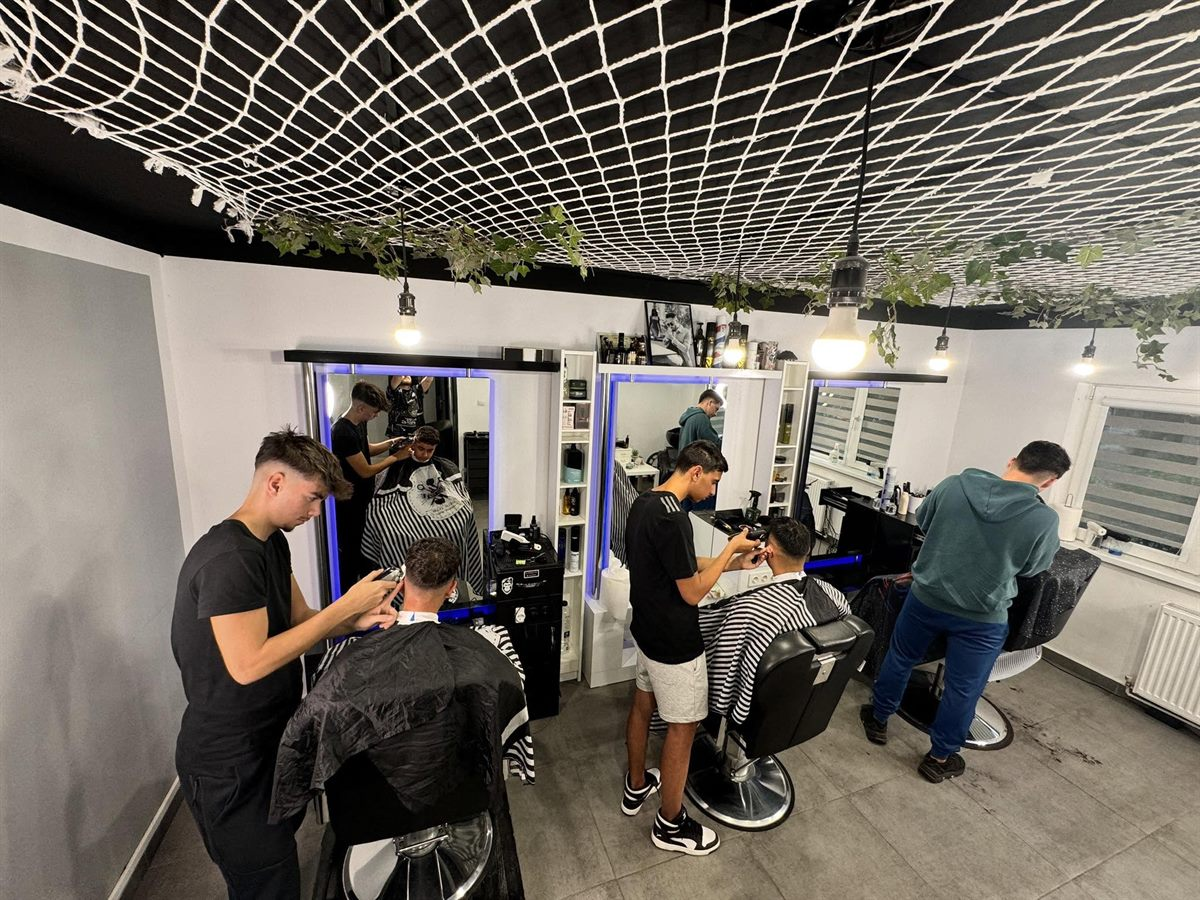
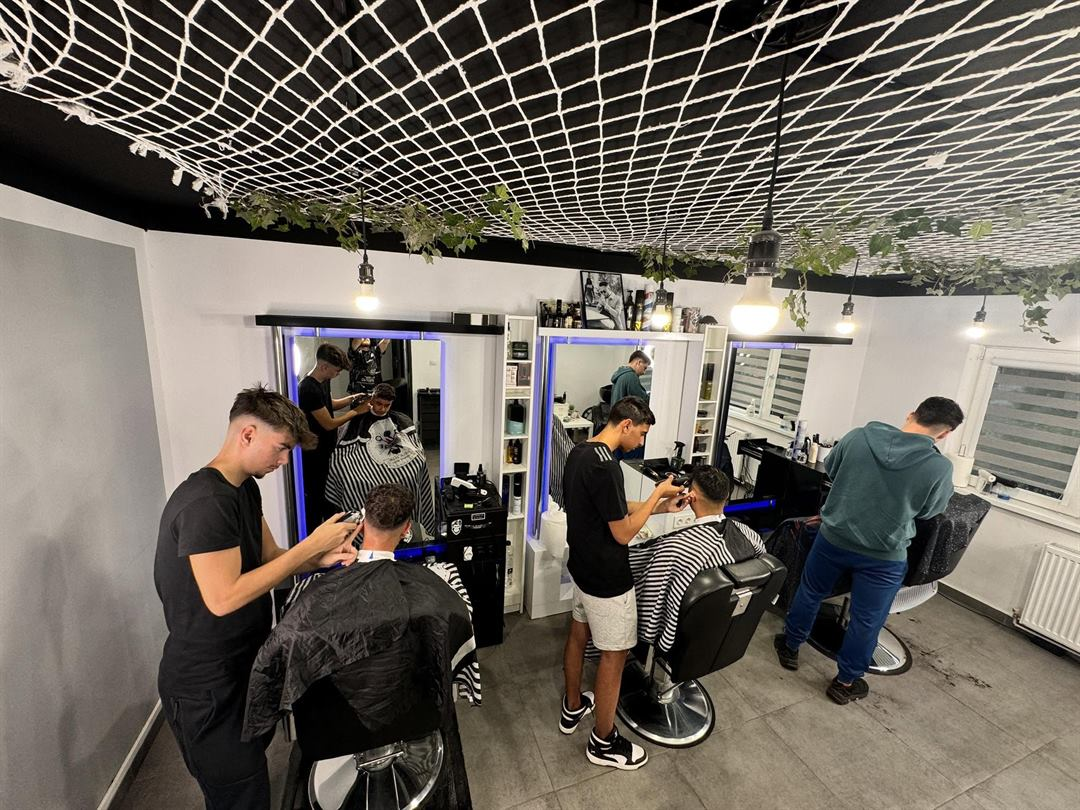
Poza salonului in primul ecran, stalp de frizerie continuu, poze fara zone goale la incarcare
Acasa: fotografia salonului devine hero cu butonul Programeaza-te peste ea, vizibila fara scroll. Stalpul de frizerie foloseste o placuta care se repeta fara cusaturi. Caruselul, grila si lightbox-ul au miniatura ca fundal pana se incarca poza mare. Doua poze recomprimate, service worker cu retea intai pentru cod.

Changed region(s): [[0.1222, 0.1543, 0.7639, 0.3086], [0.6111, 0.6481, 0.6722, 0.7407], [0.3056, 0.5556, 0.3667, 0.5864]]

diff --git a/assets/css/app.css b/assets/css/app.css
@@ -31,7 +31,9 @@
   --green-soft: rgba(51, 209, 122, .14);
   --amber: #F2B441;
 
-  --pole: repeating-linear-gradient(-45deg, var(--red) 0 7px, #F4F4F2 7px 14px, var(--blue) 14px 21px, #F4F4F2 21px 28px);
+  /* plăcuță pătrată cu exact 2 perioade pe diagonală: se repetă fără cusături */
+  --pole: linear-gradient(-45deg, var(--red) 0 12.5%, #F4F4F2 12.5% 25%, var(--blue) 25% 37.5%, #F4F4F2 37.5% 50%, var(--red) 50% 62.5%, #F4F4F2 62.5% 75%, var(--blue) 75% 87.5%, #F4F4F2 87.5% 100%);
+  --pole-s: 40px;
 
   --r-sm: 12px;
   --r-md: 16px;
@@ -303,6 +305,35 @@ body.intro .view.is-active .rise {
 .hello { padding: 10px var(--gutter) 0; }
 .hello .eyebrow { margin-bottom: 8px; text-transform: none; }
 
+/* hero: fotografia salonului în primul ecran, cu butonul de programare peste ea */
+.hero {
+  position: relative; isolation: isolate; overflow: hidden;
+  margin: 18px var(--gutter) 0; height: 300px; border-radius: 26px;
+  background: var(--surface-2);
+  box-shadow: inset 0 0 0 1px var(--line), 0 18px 50px rgba(0, 0, 0, .35);
+}
+.hero__media { position: absolute; inset: 0; z-index: -1; cursor: pointer; }
+.hero__media img {
+  width: 100%; height: 100%; object-fit: cover;
+  background-size: cover; background-position: center; background-repeat: no-repeat;
+  transform: scale(1.03); transition: transform 1.2s var(--ease-out);
+}
+.hero__media:active img { transform: scale(1.07); }
+.hero__media::after {
+  content: ""; position: absolute; inset: 0;
+  background: linear-gradient(180deg, rgba(14, 15, 17, .25) 0%, rgba(14, 15, 17, 0) 24%, rgba(14, 15, 17, .5) 46%, rgba(14, 15, 17, .82) 66%, rgba(14, 15, 17, .96) 100%);
+}
+.hero__top { position: absolute; top: 14px; left: 14px; right: 14px; display: flex; justify-content: space-between; gap: 8px; pointer-events: none; }
+.hero__body { position: absolute; left: 10px; right: 10px; bottom: 10px; pointer-events: none; }
+.hero__title { padding: 0 10px 14px; font-size: 27px; line-height: 1.02; font-weight: 800; letter-spacing: -.026em; text-shadow: 0 2px 18px rgba(0, 0, 0, .5); }
+.hero .finder {
+  pointer-events: auto;
+  width: 100%; margin: 0;
+  background: rgba(30, 31, 35, .74);
+  -webkit-backdrop-filter: blur(20px) saturate(170%); backdrop-filter: blur(20px) saturate(170%);
+  box-shadow: inset 0 0 0 1px rgba(255, 255, 255, .1), 0 10px 30px rgba(0, 0, 0, .35);
+}
+
 .finder {
   appearance: none; border: 0; width: calc(100% - 2 * var(--gutter));
   margin: 22px var(--gutter) 0;
@@ -329,7 +360,7 @@ body.intro .view.is-active .rise {
 }
 .next::before {
   content: ""; position: absolute; left: 0; top: 0; bottom: 0; width: 4px;
-  background: var(--pole); background-size: 28px 28px;
+  background: var(--pole); background-size: var(--pole-s) var(--pole-s);
 }
 .next__head { display: flex; align-items: center; justify-content: space-between; gap: 10px; }
 .next__time {
@@ -375,27 +406,6 @@ body.intro .view.is-active .rise {
 }
 .tile__name { display: block; font-size: 16px; font-weight: 800; letter-spacing: -.01em; }
 .tile__meta { display: block; margin-top: 2px; font-size: 13px; font-weight: 700; color: var(--fg-3); }
-
-.promo {
-  position: relative; display: block; isolation: isolate;
-  margin: 0 var(--gutter); height: 228px; border-radius: 24px; overflow: hidden;
-  box-shadow: inset 0 0 0 1px var(--line);
-  background: var(--surface);
-}
-.promo img {
-  position: absolute; inset: 0; width: 100%; height: 100%; object-fit: cover; z-index: -2;
-  transform: scale(1.02); transition: transform 1.2s var(--ease-out);
-}
-.promo:active img { transform: scale(1.06); }
-.promo::after {
-  content: ""; position: absolute; inset: 0; z-index: -1;
-  background: linear-gradient(180deg, rgba(14, 15, 17, 0) 25%, rgba(14, 15, 17, .55) 55%, rgba(14, 15, 17, .94) 100%);
-}
-.promo__top { position: absolute; top: 14px; left: 14px; right: 14px; display: flex; justify-content: space-between; }
-.promo__body { position: absolute; left: 18px; right: 18px; bottom: 16px; }
-.promo__title { font-size: 24px; line-height: 1.05; font-weight: 800; letter-spacing: -.022em; }
-.promo__sub { margin-top: 6px; font-size: 14px; font-weight: 600; color: var(--fg-2); display: flex; align-items: center; gap: 6px; }
-.promo__sub .i { width: 15px; height: 15px; color: var(--amber); }
 
 .barber-card {
   appearance: none; border: 0; text-align: left; color: var(--fg);
@@ -533,11 +543,11 @@ body.intro .view.is-active .rise {
   background:
     linear-gradient(90deg, rgba(0, 0, 0, .45), rgba(255, 255, 255, .18) 38%, rgba(255, 255, 255, 0) 55%, rgba(0, 0, 0, .5)),
     var(--pole);
-  background-size: 100% 100%, 28px 28px;
+  background-size: 100% 100%, var(--pole-s) var(--pole-s);
   box-shadow: 0 0 0 4px var(--surface-3), 0 0 0 5px var(--line-2), 0 14px 30px rgba(0, 0, 0, .4);
   animation: poleClimb 1.4s linear infinite;
 }
-@keyframes poleClimb { to { background-position: 0 0, 0 -28px; } }
+@keyframes poleClimb { to { background-position: 0 0, 0 calc(var(--pole-s) * -1); } }
 .academy__title { font-size: 22px; font-weight: 800; letter-spacing: -.02em; margin-top: 12px; max-width: 75%; }
 .academy__text { margin-top: 8px; color: var(--fg-2); font-size: 14.5px; font-weight: 600; max-width: 92%; }
 .academy__meta { display: flex; flex-wrap: wrap; gap: 8px; margin-top: 16px; }
@@ -816,10 +826,10 @@ textarea.input { height: 92px; padding: 15px 16px; resize: none; line-height: 1.
 }
 .ticket__stripe {
   height: 6px; border-radius: 24px 24px 0 0;
-  background: var(--pole); background-size: 28px 28px;
+  background: var(--pole); background-size: var(--pole-s) var(--pole-s);
   animation: poleMove 1.6s linear infinite;
 }
-@keyframes poleMove { to { background-position: 28px 0; } }
+@keyframes poleMove { to { background-position: var(--pole-s) 0; } }
 .ticket__main { display: flex; align-items: center; gap: 14px; height: 100px; padding: 0 20px; }
 .ticket__main .grow { flex: 1; min-width: 0; }
 .ticket__main b { display: block; font-size: 17px; font-weight: 800; letter-spacing: -.01em; }
@@ -1009,8 +1019,8 @@ body.booting .tabbar { transform: translate(-50%, calc(100% + 40px)); opacity: 0
 }
 .car__item img {
   position: absolute; inset: 0; width: 100%; height: 100%; object-fit: cover;
+  background-size: cover; background-repeat: no-repeat;
   transform: translateX(calc(var(--x) * -14%)) scale(1.22);
-  will-change: transform;
 }
 .car__item::after {
   content: ""; position: absolute; inset: 0;
@@ -1054,7 +1064,11 @@ body.booting .tabbar { transform: translate(-50%, calc(100% + 40px)); opacity: 0
 }
 .grid__item:nth-child(10n + 1) { grid-column: span 2; grid-row: span 2; }
 .grid__item:nth-child(10n + 7) { grid-column: 2 / span 2; grid-row: span 2; }
-.grid__item img { width: 100%; height: 100%; object-fit: cover; transition: transform .5s var(--ease-out), opacity .4s; }
+.grid__item img {
+  width: 100%; height: 100%; object-fit: cover;
+  background-size: cover; background-repeat: no-repeat;
+  transition: transform .5s var(--ease-out);
+}
 .grid__item:active img { transform: scale(1.05); }
 
 .fade-img { opacity: 0; transition: opacity .5s ease; }
@@ -1171,7 +1185,14 @@ body.booting .tabbar { transform: translate(-50%, calc(100% + 40px)); opacity: 0
 .lb.is-ready .lb__track { opacity: 1; }
 .lb__track::-webkit-scrollbar { display: none; }
 .lb__slide { flex: none; width: 100%; height: 100%; scroll-snap-align: center; scroll-snap-stop: always; display: grid; place-items: center; }
-.lb__img { max-width: 100%; max-height: 100%; width: auto; height: auto; object-fit: contain; user-select: none; -webkit-user-drag: none; will-change: transform; }
+/* cutie dimensionată din raportul pozei: miniatura de fundal o umple perfect până se încarcă originalul */
+.lb__img {
+  width: min(100vw, calc(100dvh * var(--ar, 1)));
+  height: auto; aspect-ratio: var(--ar, 1);
+  object-fit: cover;
+  background-size: cover; background-position: center; background-repeat: no-repeat;
+  user-select: none; -webkit-user-drag: none;
+}
 .lb__ui { transition: opacity .3s ease; }
 .lb:not(.is-ready) .lb__ui, .lb.is-dragging .lb__ui { opacity: 0; }
 .lb__top {
@@ -1235,7 +1256,7 @@ body.booting .tabbar { transform: translate(-50%, calc(100% + 40px)); opacity: 0
 .pole__fill {
   --p: 0;
   position: absolute; inset: 0;
-  background: var(--pole); background-size: 28px 28px;
+  background: var(--pole); background-size: var(--pole-s) var(--pole-s);
   clip-path: inset(0 calc(100% - var(--p) * 100%) 0 0 round 5px);
   animation: poleMove .9s linear infinite;
 }

diff --git a/assets/js/views/home.js b/assets/js/views/home.js
@@ -72,11 +72,23 @@ function render() {
       </button>
     </section>
 
-    <button class="finder press rise" style="--d:1" type="button" data-act="book">
-      <span class="finder__icon">${icon('scissors')}</span>
-      <span class="finder__text">Programează-te</span>
-      <span class="finder__when">${icon('clock')} <span data-next-free>${naText}</span></span>
-    </button>
+    <section class="hero rise" style="--d:1">
+      <div class="hero__media" data-act="about" role="link" tabindex="0" aria-label="Despre salon">
+        <img src="${PHOTOS[0].src}" alt="" decoding="async" fetchpriority="high" style="background-image:url('${PHOTOS[0].thumb}')">
+      </div>
+      <div class="hero__top">
+        <span class="chip chip--glass">${icon('pin')} Ploiești · Str. Panduri 2</span>
+        <span class="chip chip--glass">${icon('star')} ${String(SALON.rating.score).replace('.', ',')}</span>
+      </div>
+      <div class="hero__body">
+        <div class="hero__title">Barbershop<br>și academie</div>
+        <button class="finder press" type="button" data-act="book">
+          <span class="finder__icon">${icon('scissors')}</span>
+          <span class="finder__text">Programează-te</span>
+          <span class="finder__when">${icon('clock')} <span data-next-free>${naText}</span></span>
+        </button>
+      </div>
+    </section>
 
     ${next ? nextCard(next) : ''}
 
@@ -92,17 +104,6 @@ function render() {
             <span><span class="tile__name">${esc(s.name)}</span><span class="tile__meta">${fmt.price(s.price)} · ${fmt.duration(s.duration)}</span></span>
           </button>`).join('')}
       </div>
-    </section>
-
-    <section class="sec rise" style="--d:4">
-      <a class="promo" href="#/despre" data-act="about">
-        <img src="${PHOTOS[0].src}" alt="" loading="lazy" decoding="async">
-        <div class="promo__top"><span class="chip chip--glass">Ploiești · Str. Panduri 2</span></div>
-        <div class="promo__body">
-          <div class="promo__title">Barbershop<br>și academie</div>
-          <div class="promo__sub">${icon('star')} ${String(SALON.rating.score).replace('.', ',')} · ${SALON.rating.count.toLocaleString('ro-RO')} recenzii pe mero</div>
-        </div>
-      </a>
     </section>
 
     <section class="sec">
@@ -189,7 +190,7 @@ function onClick(e) {
   if (t.dataset.barber) { haptic(); barberSheet(t.dataset.barber); return; }
   if (t.dataset.photo) { haptic(); openLightbox(PHOTOS, Number(t.dataset.photo), t.querySelector('img')); return; }
   if (t.hasAttribute('data-directions') || act === 'directions') { haptic(); directionsSheet(); return; }
-  if (act === 'book') { haptic(); bus.emit('book:start', {}); }
+  if (act === 'book') { e.stopPropagation(); haptic(); bus.emit('book:start', {}); }
   else if (act === 'hours') { haptic(); hoursSheet(); }
   else if (act === 'agenda') { haptic(); bus.emit('nav', 'agenda'); }
   else if (act === 'about') { e.preventDefault(); haptic(); bus.emit('nav', 'about'); }

diff --git a/assets/js/gallery.js b/assets/js/gallery.js
@@ -2,6 +2,9 @@
 import { icon } from './icons.js';
 import { esc, haptic, pushOverlay, popOverlay, reduceMotion, fadeImages } from './lib.js';
 
+/* Miniatura stă ca fundal sub poza mare: cât timp aceasta se descarcă, nu apare niciodată o zonă goală. */
+export const ph = (p) => `object-position:${p.pos};background-image:url('${p.thumb}');background-position:${p.pos}`;
+
 /* ---------- carusel ---------- */
 export function carouselHTML(photos) {
   return `
@@ -9,7 +12,7 @@ export function carouselHTML(photos) {
     <div class="car__track" data-car>
       ${photos.map((p, i) => `
         <button class="car__item" type="button" data-photo="${i}" aria-label="Deschide fotografia ${i + 1}: ${esc(p.alt)}">
-          <img src="${p.src}" alt="${esc(p.alt)}" ${i > 2 ? 'loading="lazy"' : ''} decoding="async" style="object-position:${p.pos}">
+          <img src="${p.src}" alt="${esc(p.alt)}" width="${p.w}" height="${p.h}" ${i > 3 ? 'loading="lazy"' : ''} decoding="async" style="${ph(p)}">
           <span class="car__cap"><small>${String(i + 1).padStart(2, '0')}</small>${esc(p.alt)}</span>
         </button>`).join('')}
     </div>
@@ -107,7 +110,7 @@ export function openLightbox(photos, index, originImg) {
   lb.innerHTML = `
     <div class="lb__bg"></div>
     <div class="lb__track">
-      ${photos.map((p, i) => `<div class="lb__slide"><img class="lb__img" src="${Math.abs(i - index) <= 1 ? p.src : ''}" data-src="${p.src}" alt="${esc(p.alt)}" decoding="async"></div>`).join('')}
+      ${photos.map((p, i) => `<div class="lb__slide"><img class="lb__img" src="${Math.abs(i - index) <= 1 ? p.src : ''}" data-src="${p.src}" alt="${esc(p.alt)}" decoding="async" style="--ar:${p.w}/${p.h};background-image:url('${p.thumb}')"></div>`).join('')}
     </div>
     <div class="lb__top lb__ui">
       <span class="lb__count tnum"></span>
@@ -290,6 +293,6 @@ export function openLightbox(photos, index, originImg) {
 export function gridHTML(photos) {
   return `<div class="grid">${photos.map((p, i) => `
     <button class="grid__item" type="button" data-photo="${i}" aria-label="${esc(p.alt)}">
-      <img class="fade-img" src="${i % 10 === 0 || i % 10 === 6 ? p.src : p.thumb}" alt="${esc(p.alt)}" loading="lazy" decoding="async" style="object-position:${p.pos}">
+      <img src="${i % 10 === 0 || i % 10 === 6 ? p.src : p.thumb}" alt="${esc(p.alt)}" loading="lazy" decoding="async" style="${ph(p)}">
     </button>`).join('')}</div>`;
 }

diff --git a/sw.js b/sw.js
@@ -1,5 +1,5 @@
 /* Service worker: funcționare offline + reamintiri în fundal. */
-const VERSION = 'us-2026-11-10-1';
+const VERSION = 'us-2026-11-10-2';
 const SHELL = [
   './',
   'index.html',
@@ -65,7 +65,21 @@ self.addEventListener('fetch', (e) => {
     return;
   }
 
-  // resursele proprii: din cache, actualizate în fundal
+  // codul propriu (JS, CSS, manifest): rețea întâi, ca actualizările să apară imediat; cache doar offline
+  if (url.origin === self.location.origin && /\.(js|css|webmanifest)$/.test(url.pathname)) {
+    e.respondWith(caches.open(VERSION).then(async (c) => {
+      try {
+        const res = await fetch(req, { cache: 'no-cache' });
+        if (res.ok) c.put(req, res.clone());
+        return res;
+      } catch {
+        return (await c.match(req, { ignoreSearch: true })) || Response.error();
+      }
+    }));
+    return;
+  }
+
+  // imaginile proprii: din cache, actualizate în fundal
   if (url.origin === self.location.origin) {
     e.respondWith(caches.open(VERSION).then(async (c) => {
       const hit = await c.match(req, { ignoreSearch: true });

diff --git a/assets/js/data.js b/assets/js/data.js
@@ -117,7 +117,7 @@ const G = (n, w, h, alt, pos = '50% 50%') => ({
   w, h, alt, pos,
 });
 export const PHOTOS = [
-  G('01', 1200, 900, 'Salonul, cu toate posturile ocupate'),
+  G('01', 1080, 810, 'Salonul, cu toate posturile ocupate'),
   G('02', 472, 1024, 'Skin fade cu barbă conturată', '50% 35%'),
   G('03', 1080, 750, 'Fade lucrat cu mașina', '60% 50%'),
   G('04', 768, 1024, 'Fade cu volum texturat', '50% 40%'),
@@ -127,7 +127,7 @@ export const PHOTOS = [
   G('08', 768, 1024, 'Low fade la ceafă', '50% 45%'),
   G('09', 640, 640, 'Fade și barbă, două unghiuri'),
   G('10', 640, 640, 'Crop texturat'),
-  G('11', 1200, 813, 'O zi obișnuită în salon'),
+  G('11', 1080, 732, 'O zi obișnuită în salon'),
   G('12', 472, 1024, 'Fade pentru cei mici', '50% 35%'),
   G('13', 640, 640, 'Detalii cu trimmerul'),
   G('14', 472, 1024, 'Platinat, stil texturat', '50% 30%'),
